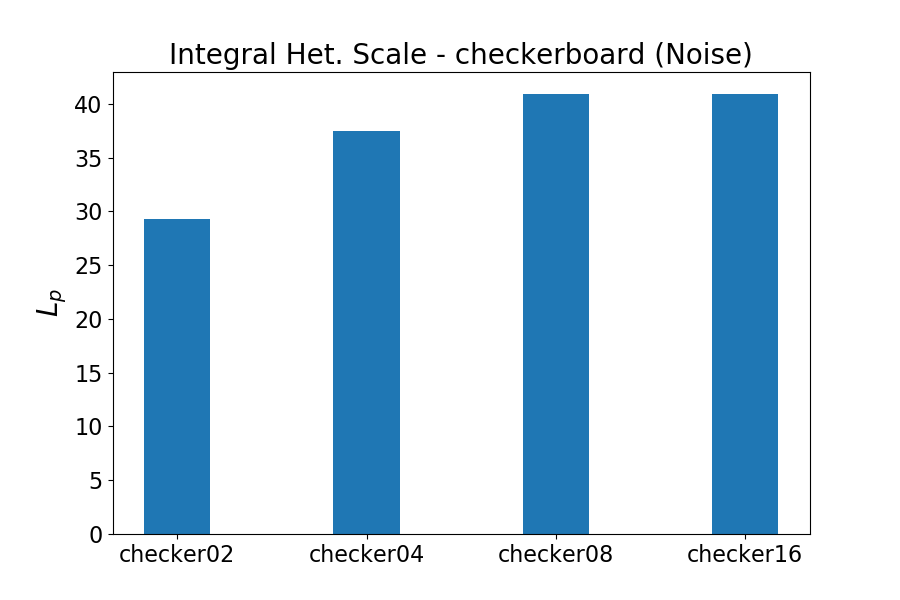
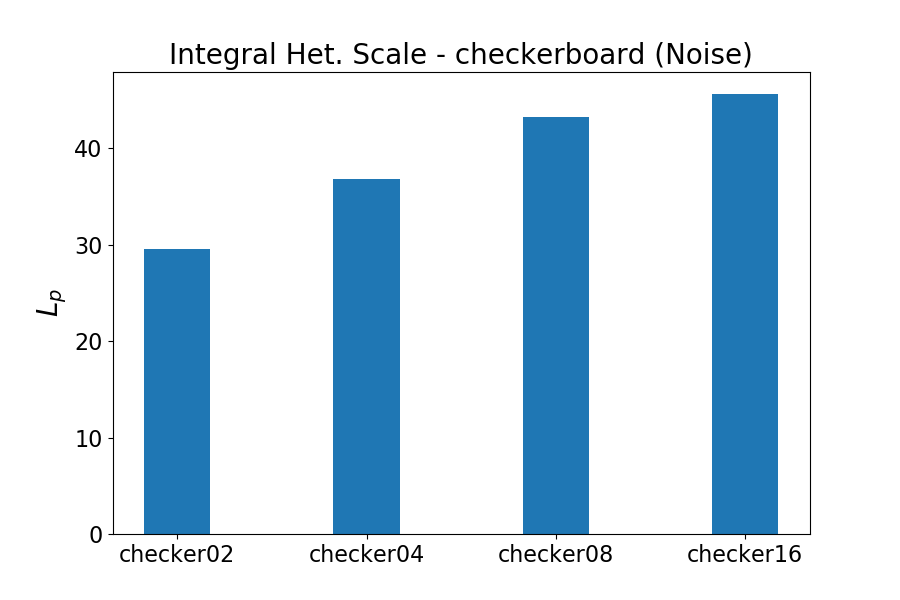
updates

diff --git a/quantify_het/quantify_het.py b/quantify_het/quantify_het.py
@@ -28,11 +28,12 @@ plt.close('all')
 
 # load the array text file from the surface folder
 # current options: checkerboard, strips
-pattern = 'strips_par'
-noise = False
+pattern = 'checkerboard'
+noise = True
 reso = 96
-lp = os.path.join(root,"surfaces",'strips','arrays','perp')
-string_cutoff = -22
+lp = os.path.join(root, 'surfaces','checkerboard','arrays'); s_cutoff = -17
+#lp = os.path.join(root,'surfaces','strips','arrays','perp'); s_cutoff = -22
+#checkerboard=-17, strips=-22
 
 ################# all options should be able to be set above #################
 
@@ -45,6 +46,7 @@ else:
 # set filename for saving
 fname = f'{pattern}' + nstring[1] + '.png'
 titlestring = f"Structure Functions - {pattern}"+nstring[0]
+print(f"\n  Title to be used: {titlestring}\n  Filename to be used: {fname}")
 
 # create figure
 fig, ax = plt.subplots(figsize=(10,6))
@@ -70,10 +72,12 @@ for filename in sorted(os.listdir(lp)):
         # add noise to array, if flagged
         if noise:
             arr = arr + np.random.normal(0, 1, np.shape(arr))
+            #plt.matshow(arr)
+            #plt.colorbar()
         
         # calculate rx and semivariogram, append int_scale
         rx, semivar, int_scale = fn.semivariogram(arr)
-        int_scale_dict[filename[:string_cutoff]] = int_scale
+        int_scale_dict[filename[:s_cutoff]] = int_scale
         
         # create figure
         ax.plot(rx,semivar/np.max(semivar),label=f"{filename[:-17]}")
